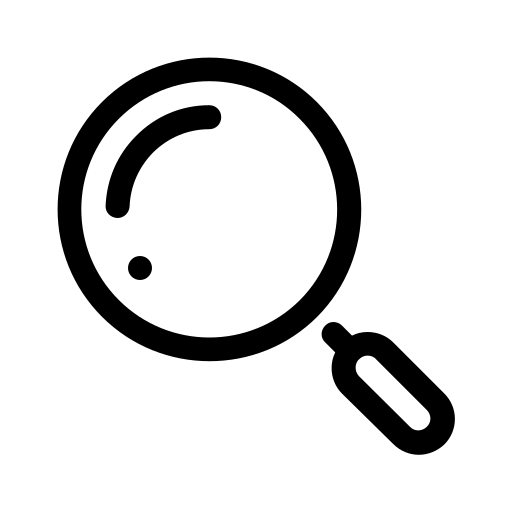
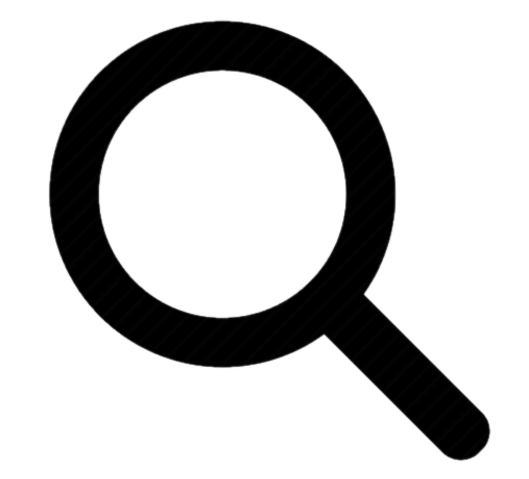
Search Bar w/ animation

diff --git a/src/components/dashboard/Search.js b/src/components/dashboard/Search.js
@@ -3,115 +3,87 @@ import { jsx } from 'theme-ui';
 import styled from '@emotion/styled';
 
 import React from 'react';
-import ClickAwayListener from '@material-ui/core/ClickAwayListener';
-import Grow from '@material-ui/core/Grow';
-import Paper from '@material-ui/core/Paper';
-import Popper from '@material-ui/core/Popper';
 import TaskContext from '../../context/TaskContext';
-import MenuList from '@material-ui/core/MenuList';
 
-const FilterImg = styled.img`
-  height: 30px;
-  width: 30px;
+const SearchForm = styled.form`
+  position: relative;
+  top: 50%;
+  left: 50%;
+  transform: translate(-50%, -50%);
+  transition: all 1s;
+  width: 50px;
+  height: 50px;
+  background: white;
+  box-sizing: border-box;
+  border-radius: 25px;
+  border: 4px solid white;
+  padding: 5px;
+
+  &:hover {
+    width: 200px;
+    cursor: pointer;
+  }
 `;
 
-const Container = styled.div`
-  display: flex;
-  justify-content: flex-start;
-  margin-top: -80px;
-  margin-right: 10px;
+const InputForm = styled.input`
+  position: absolute;
+  top: 0;
+  left: 0;
+  width: 100%;
+  height: 42.5px;
+  line-height: 30px;
+  outline: 0;
+  border: 0;
+  font-size: 1em;
+  border-radius: 20px;
+
+  &:hover {
+    display: block;
+  }
+`;
+
+const SearchImg = styled.img`
+  box-sizing: border-box;
+  background: white;
+  padding: 5px;
+  width: 40px;
+  height: 40px;
+  position: absolute;
+  top: 0;
+  right: 0;
+  border-radius: 50%;
+  color: #07051a;
+  text-align: center;
+  font-size: 1.2em;
+  transition: all 1s;
+
+  &:hover {
+    color: white;
+  }
 `;
 
 export default function Search() {
   const { searchTerm, editSearch } = React.useContext(TaskContext);
-  const [open, setOpen] = React.useState(false);
-  const anchorRef = React.useRef(null);
 
   const handleChange = (event) => {
     editSearch(event.target.value);
   };
 
-  const handleToggle = () => {
-    setOpen((prevOpen) => !prevOpen);
-  };
-
-  const handleClose = (event) => {
-    if (anchorRef.current && anchorRef.current.contains(event.target)) {
-      return;
-    }
-    setOpen(false);
-  };
-
-  function handleListKeyDown(event) {
-    if (event.key === 'Tab') {
-      event.preventDefault();
-      setOpen(false);
-    }
-  }
-
-  const prevOpen = React.useRef(open);
-  React.useEffect(() => {
-    if (prevOpen.current === true && open === false) {
-      anchorRef.current.focus();
-    }
-    prevOpen.current = open;
-  }, [open]);
-
   return (
-    <div>
-      <div>
-        <Container>
-          <FilterImg
-            ref={anchorRef}
-            aria-controls={open ? 'menu-list-grow' : undefined}
-            aria-haspopup="true"
-            onClick={handleToggle}
-            src="./search.png"
-          ></FilterImg>
-          <Popper
-            open={open}
-            role={undefined}
-            transition
-            disablePortal
-            style={{ marginTop: '85px', marginLeft: '60px', height: '30px' }}
-          >
-            {({ TransitionProps, placement }) => (
-              <Grow
-                {...TransitionProps}
-                style={{
-                  transformOrigin:
-                    placement === 'bottom' ? 'right top' : 'right bottom',
-                }}
-              >
-                <Paper>
-                  <ClickAwayListener onClickAway={handleClose}>
-                    <MenuList
-                      style={{
-                        backgroundColor: 'white',
-                        display: 'flex',
-                        justifyContent: 'center',
-                        flexDirection: 'column',
-                      }}
-                      autoFocusItem={open}
-                      id="menu-list-grow"
-                      onKeyDown={handleListKeyDown}
-                    >
-                      <form>
-                        <input
-                          type="search"
-                          placeholder="Search..."
-                          value={searchTerm}
-                          onChange={handleChange}
-                        />
-                      </form>
-                    </MenuList>
-                  </ClickAwayListener>
-                </Paper>
-              </Grow>
-            )}
-          </Popper>
-        </Container>
-      </div>
+    <div
+      sx={{
+        marginTop: '-240px',
+      }}
+    >
+      <SearchForm>
+        <InputForm
+          type="text"
+          placeholder="Search..."
+          value={searchTerm}
+          onChange={handleChange}
+        />
+        <SearchImg src="/search.png" />
+      </SearchForm>
     </div>
   );
 }

diff --git a/src/components/LandingPage.js b/src/components/LandingPage.js
@@ -3,40 +3,75 @@ import { jsx } from 'theme-ui';
 // import { Link } from 'theme-ui';
 import { Link } from 'react-router-dom';
 
-
 const LandingPage = () => {
   return (
-    <div sx={{display: 'flex', flexDirection: 'column', height: '400px',
-      justifyContent: 'space-around',
-      alignContent: 'center',
-      width: '100%', 
-      margin: '0 auto', 
-      marginTop: '100px',
-      }}>
-      <h1 
-          sx={{
-            textAlign: 'center', 
-            }}>
-            Welcome to
+    <div
+      sx={{
+        display: 'flex',
+        flexDirection: 'column',
+        height: '400px',
+        justifyContent: 'space-around',
+        alignContent: 'center',
+        width: '100%',
+        margin: '0 auto',
+        marginTop: '100px',
+      }}
+    >
+      <h1
+        sx={{
+          textAlign: 'center',
+        }}
+      >
+        Welcome to
       </h1>
-      <img 
-        src='OrangeLogo.png' 
-        alt='orange squares icon' 
-          sx={{
-            width: '30em', 
-            margin: '0 auto',
-            height: 'auto',
-
-            }} />
-      <div sx={{display: 'flex', flexDirection: 'column', width: '45%', margin: '0 auto', alignItems: 'center', marginTop: '50px'}}>      
-      <Link to='/signup'>
-        <button sx={{width: "327px", height: "48px", background: "#82D1FF", color: "#002550", fontSize: "30px", marginBottom: "20px"}}>Sign Up</button>
-      </Link>
-      <Link to='/login'>
-        <button sx={{width: "327px", height: "48px", background: "#82D1FF", color: "#002550", fontSize: "30px"}}>Sign In</button>
-      </Link>
+      <img
+        src="/LifeLoggerBlueWords.png"
+        alt="orange squares icon"
+        sx={{
+          width: '30em',
+          margin: '0 auto',
+          height: 'auto',
+        }}
+      />
+      <div
+        sx={{
+          display: 'flex',
+          flexDirection: 'column',
+          width: '45%',
+          margin: '0 auto',
+          alignItems: 'center',
+          marginTop: '50px',
+        }}
+      >
+        <Link to="/signup">
+          <button
+            sx={{
+              width: '327px',
+              height: '48px',
+              background: '#82D1FF',
+              color: '#002550',
+              fontSize: '30px',
+              marginBottom: '20px',
+            }}
+          >
+            Sign Up
+          </button>
+        </Link>
+        <Link to="/login">
+          <button
+            sx={{
+              width: '327px',
+              height: '48px',
+              background: '#82D1FF',
+              color: '#002550',
+              fontSize: '30px',
+            }}
+          >
+            Sign In
+          </button>
+        </Link>
       </div>
-      </div>
+    </div>
   );
 };
 

diff --git a/src/components/BurgerMenu.js b/src/components/BurgerMenu.js
@@ -1,4 +1,3 @@
-
 import React, { useState } from 'react';
 import styled from '@emotion/styled';
 import SideNav from './SideNav';
@@ -19,26 +18,26 @@ const StyledBurger = styled.div`
   div {
     width: 2rem;
     height: 0.25rem;
-    background-color: ${({ open }) => open ? 'white' : 'white'};
+    background-color: ${({ open }) => (open ? 'white' : 'white')};
     border-radius: 10px;
     transform-origin: 1px;
     transition: all 0.3s linear;
     &:nth-child(1) {
-      transform: ${({ open }) => open ? 'rotate(45deg)' : 'rotate(0)'};
+      transform: ${({ open }) => (open ? 'rotate(45deg)' : 'rotate(0)')};
     }
     &:nth-child(2) {
-      transform: ${({ open }) => open ? 'translateX(100%)' : 'translateX(0)'};
-      opacity: ${({ open }) => open ? 0 : 1};
+      transform: ${({ open }) => (open ? 'translateX(100%)' : 'translateX(0)')};
+      opacity: ${({ open }) => (open ? 0 : 1)};
     }
     &:nth-child(3) {
-      transform: ${({ open }) => open ? 'rotate(-45deg)' : 'rotate(0)'};
+      transform: ${({ open }) => (open ? 'rotate(-45deg)' : 'rotate(0)')};
     }
   }
 `;
 
 const BurgerMenu = () => {
-  const [open, setOpen] = useState(false)
-  
+  const [open, setOpen] = useState(false);
+
   return (
     <>
       <StyledBurger open={open} onClick={() => setOpen(!open)}>
@@ -46,8 +45,8 @@ const BurgerMenu = () => {
         <div />
         <div />
       </StyledBurger>
-      <SideNav open={open}/>
+      <SideNav open={open} />
     </>
-  )
-}
+  );
+};
 export default BurgerMenu;

diff --git a/src/components/dashboard/TaskList.js b/src/components/dashboard/TaskList.js
@@ -33,19 +33,24 @@ const TaskList = () => {
   }, []);
 
   return (
-    <div>
+    <div
+      sx={{
+        display: 'flex',
+        justifyContent: 'flex-end',
+      }}
+    >
       <Search />
       <div
         sx={{
           // display: `grid`,
           gridTemplateColumns: [`1fr`, `minmax(auto, 400px)`],
           gridGap: `15px`,
-          position: "absolute",
-          zIndex: "-1",
-          width: "90%",
-          display: "flex",
-          flexDirection: "column",
-          alignContent: "center"
+          position: 'absolute',
+          zIndex: '-1',
+          width: '90%',
+          display: 'flex',
+          flexDirection: 'column',
+          alignContent: 'center',
         }}
       >
         {tasks

diff --git a/src/components/header/Header.js b/src/components/header/Header.js
@@ -28,7 +28,7 @@ const Title = styled.h2`
 const Header = () => {
   return (
     <HeaderDiv data-testid="testtag">
-      <Logo src="/OrangeIcon.png" />
+      <Logo src="/LifeLoggerBlueLogo.png" />
       <BurgerMenu />
       <Title>Life Logger</Title>
     </HeaderDiv>
